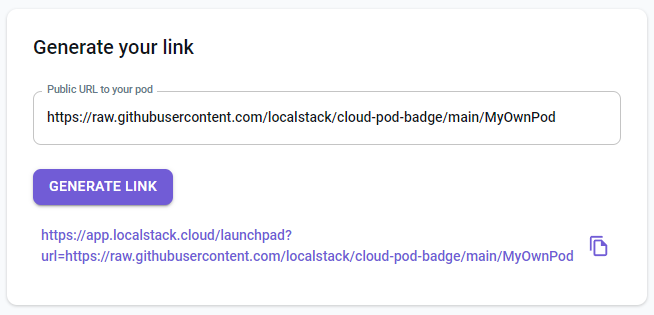
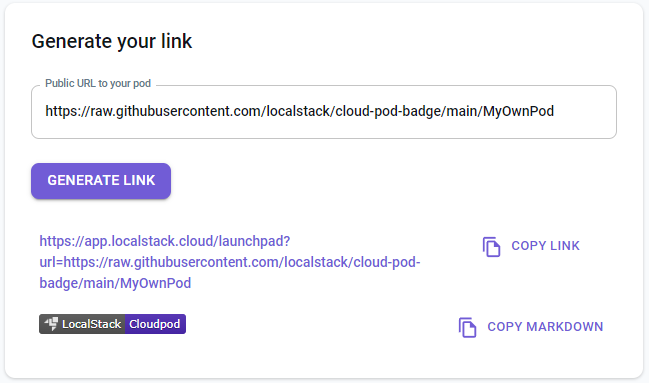
chore(launchpad-update): update docs to reflect updates of launchpad

diff --git a/content/en/user-guide/tools/cloud-pods/launchpad/index.md b/content/en/user-guide/tools/cloud-pods/launchpad/index.md
@@ -18,6 +18,8 @@ Navigate to <https://app.localstack.cloud/launchpad> where you can create a shar
 Enter a public URl to your pod in the first input field, and click on 'Generate Link'.
 The resulting link can be copied and shared with others.
 
+You can also copy the markdown snippet to quickly add a badge to your repository.
+
 {{< alert title="Warning" color="warning" >}}
 Please consider that the launchpad takes an arbitrary URL as input and passes it onto your LocalStack instance to inject the pod. 
 This may lead to unintended side effects, as the URL that is passed to the launchpad is not validated in any way. 
@@ -38,7 +40,7 @@ If you want to add a badge to your README that links to the Cloud Pod Launchpad,
 
 Please note that you have to add the `url_of_your_pod` as the `url` query parameter to the URL.
 For example if you are hosting the pod in the same repository, just use the URL pointing to the raw pod file.
-Additionally, you can use the [Link Generator]({{< ref "#creating-your-sharable-link" >}}) to create the sharable link for your pod.
+Additionally, you can use the [Link Generator]({{< ref "#creating-your-sharable-link" >}}) to create the sharable link for your pod and copy the markdown for your repo.
 
 Check out a proper example <a href="https://github.com/localstack/cloud-pod-badge" target="_blank">on this GitHub repository</a>.
 
